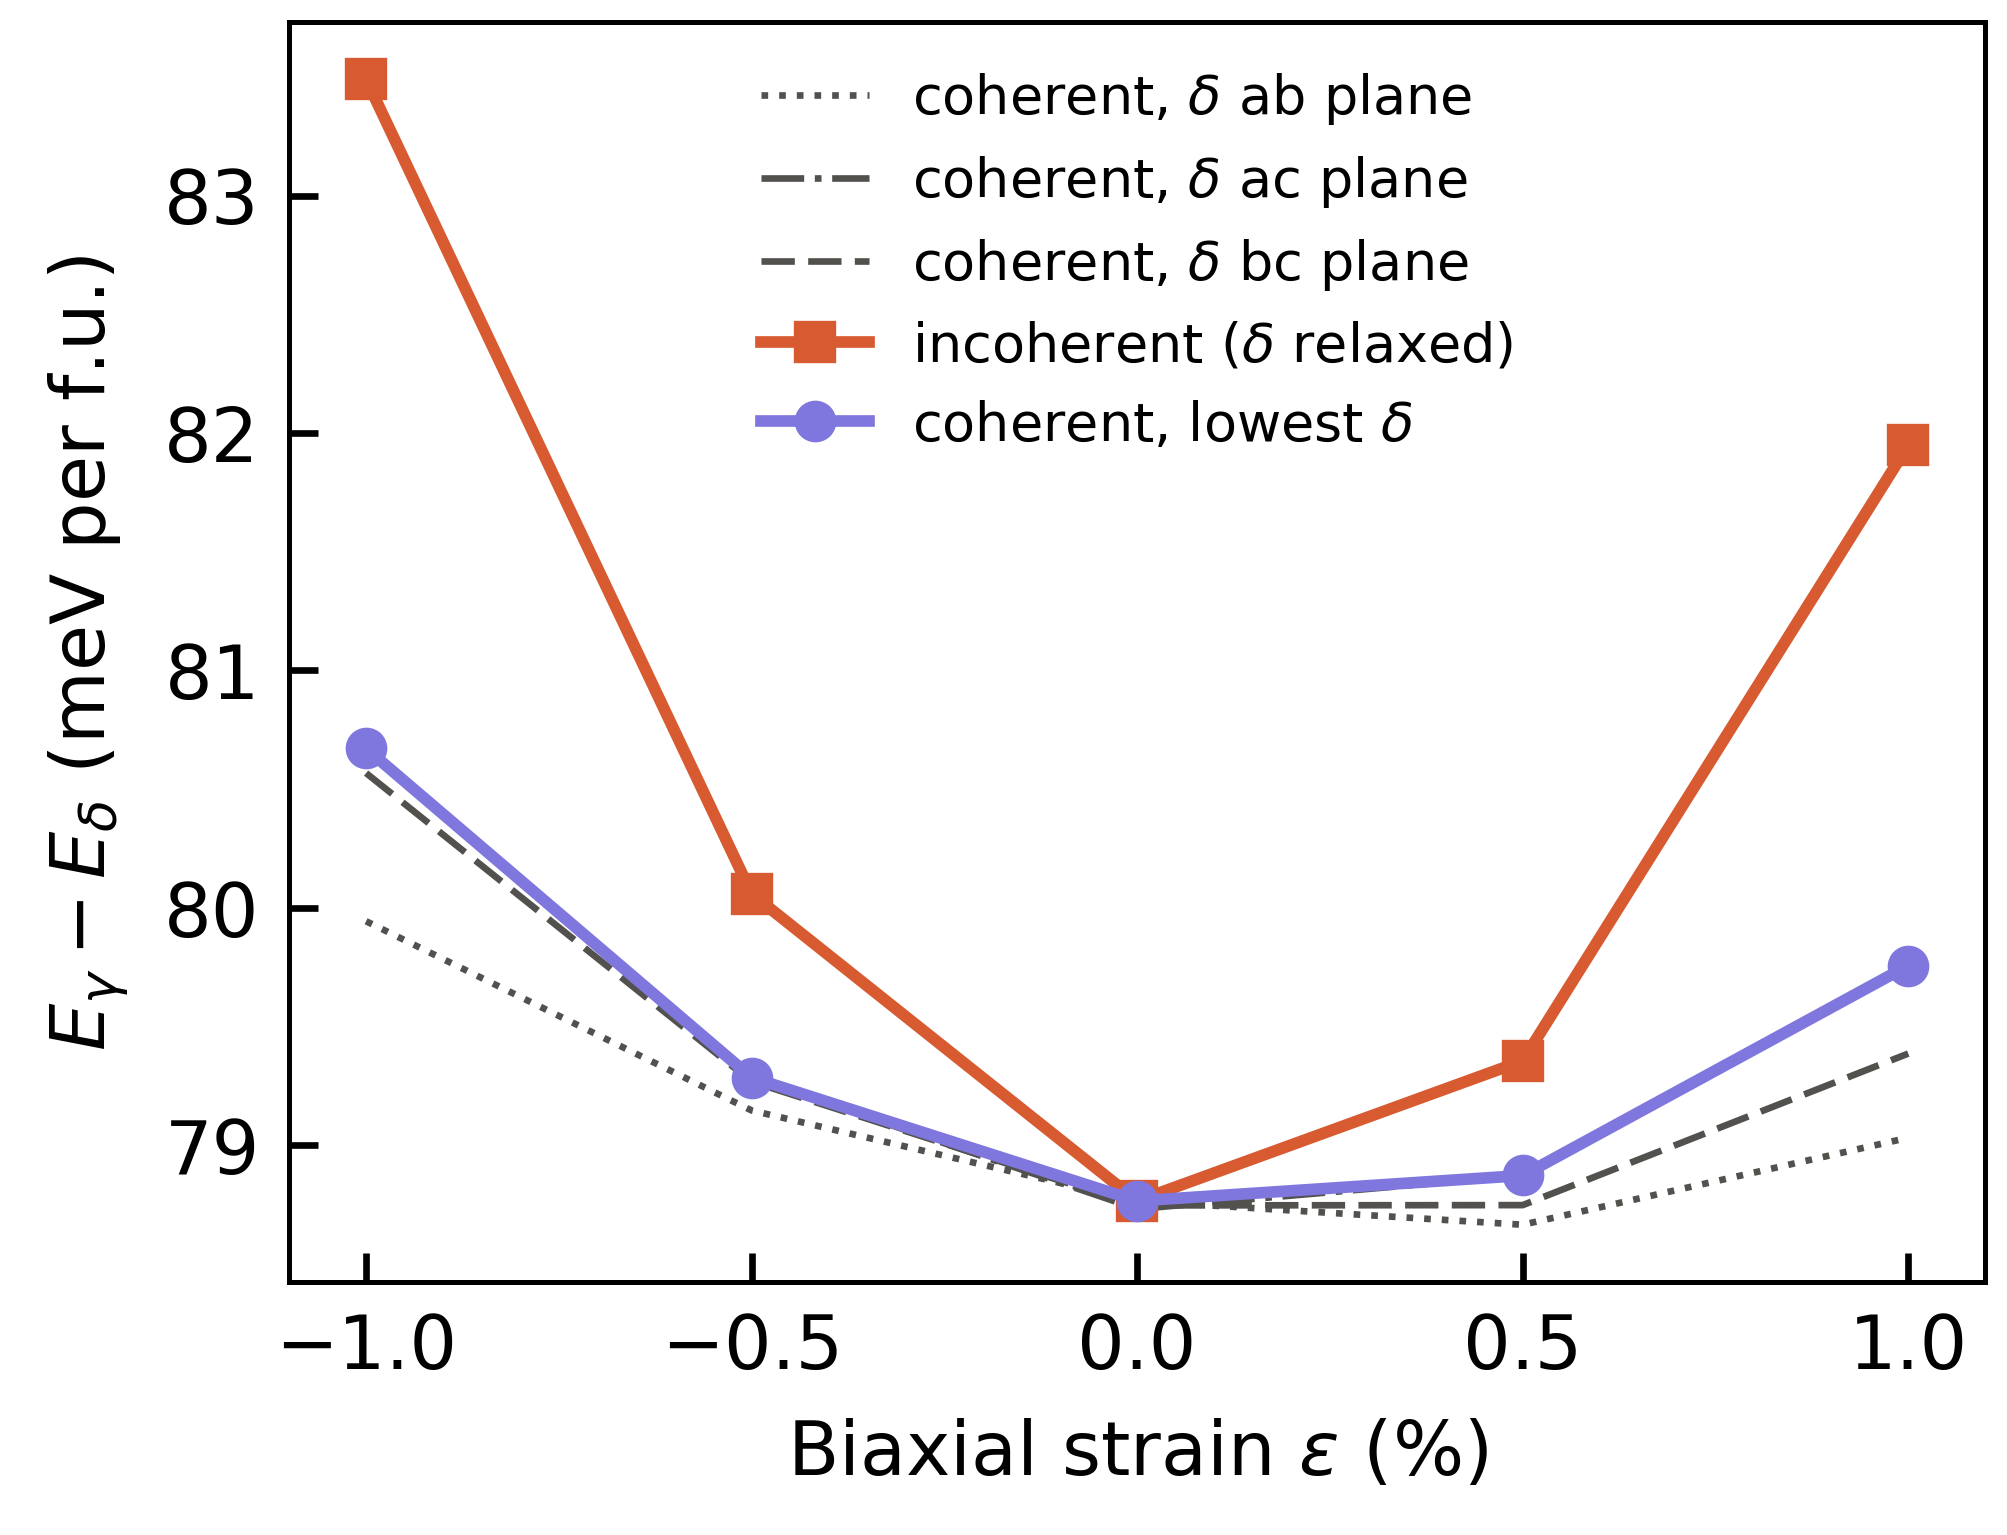
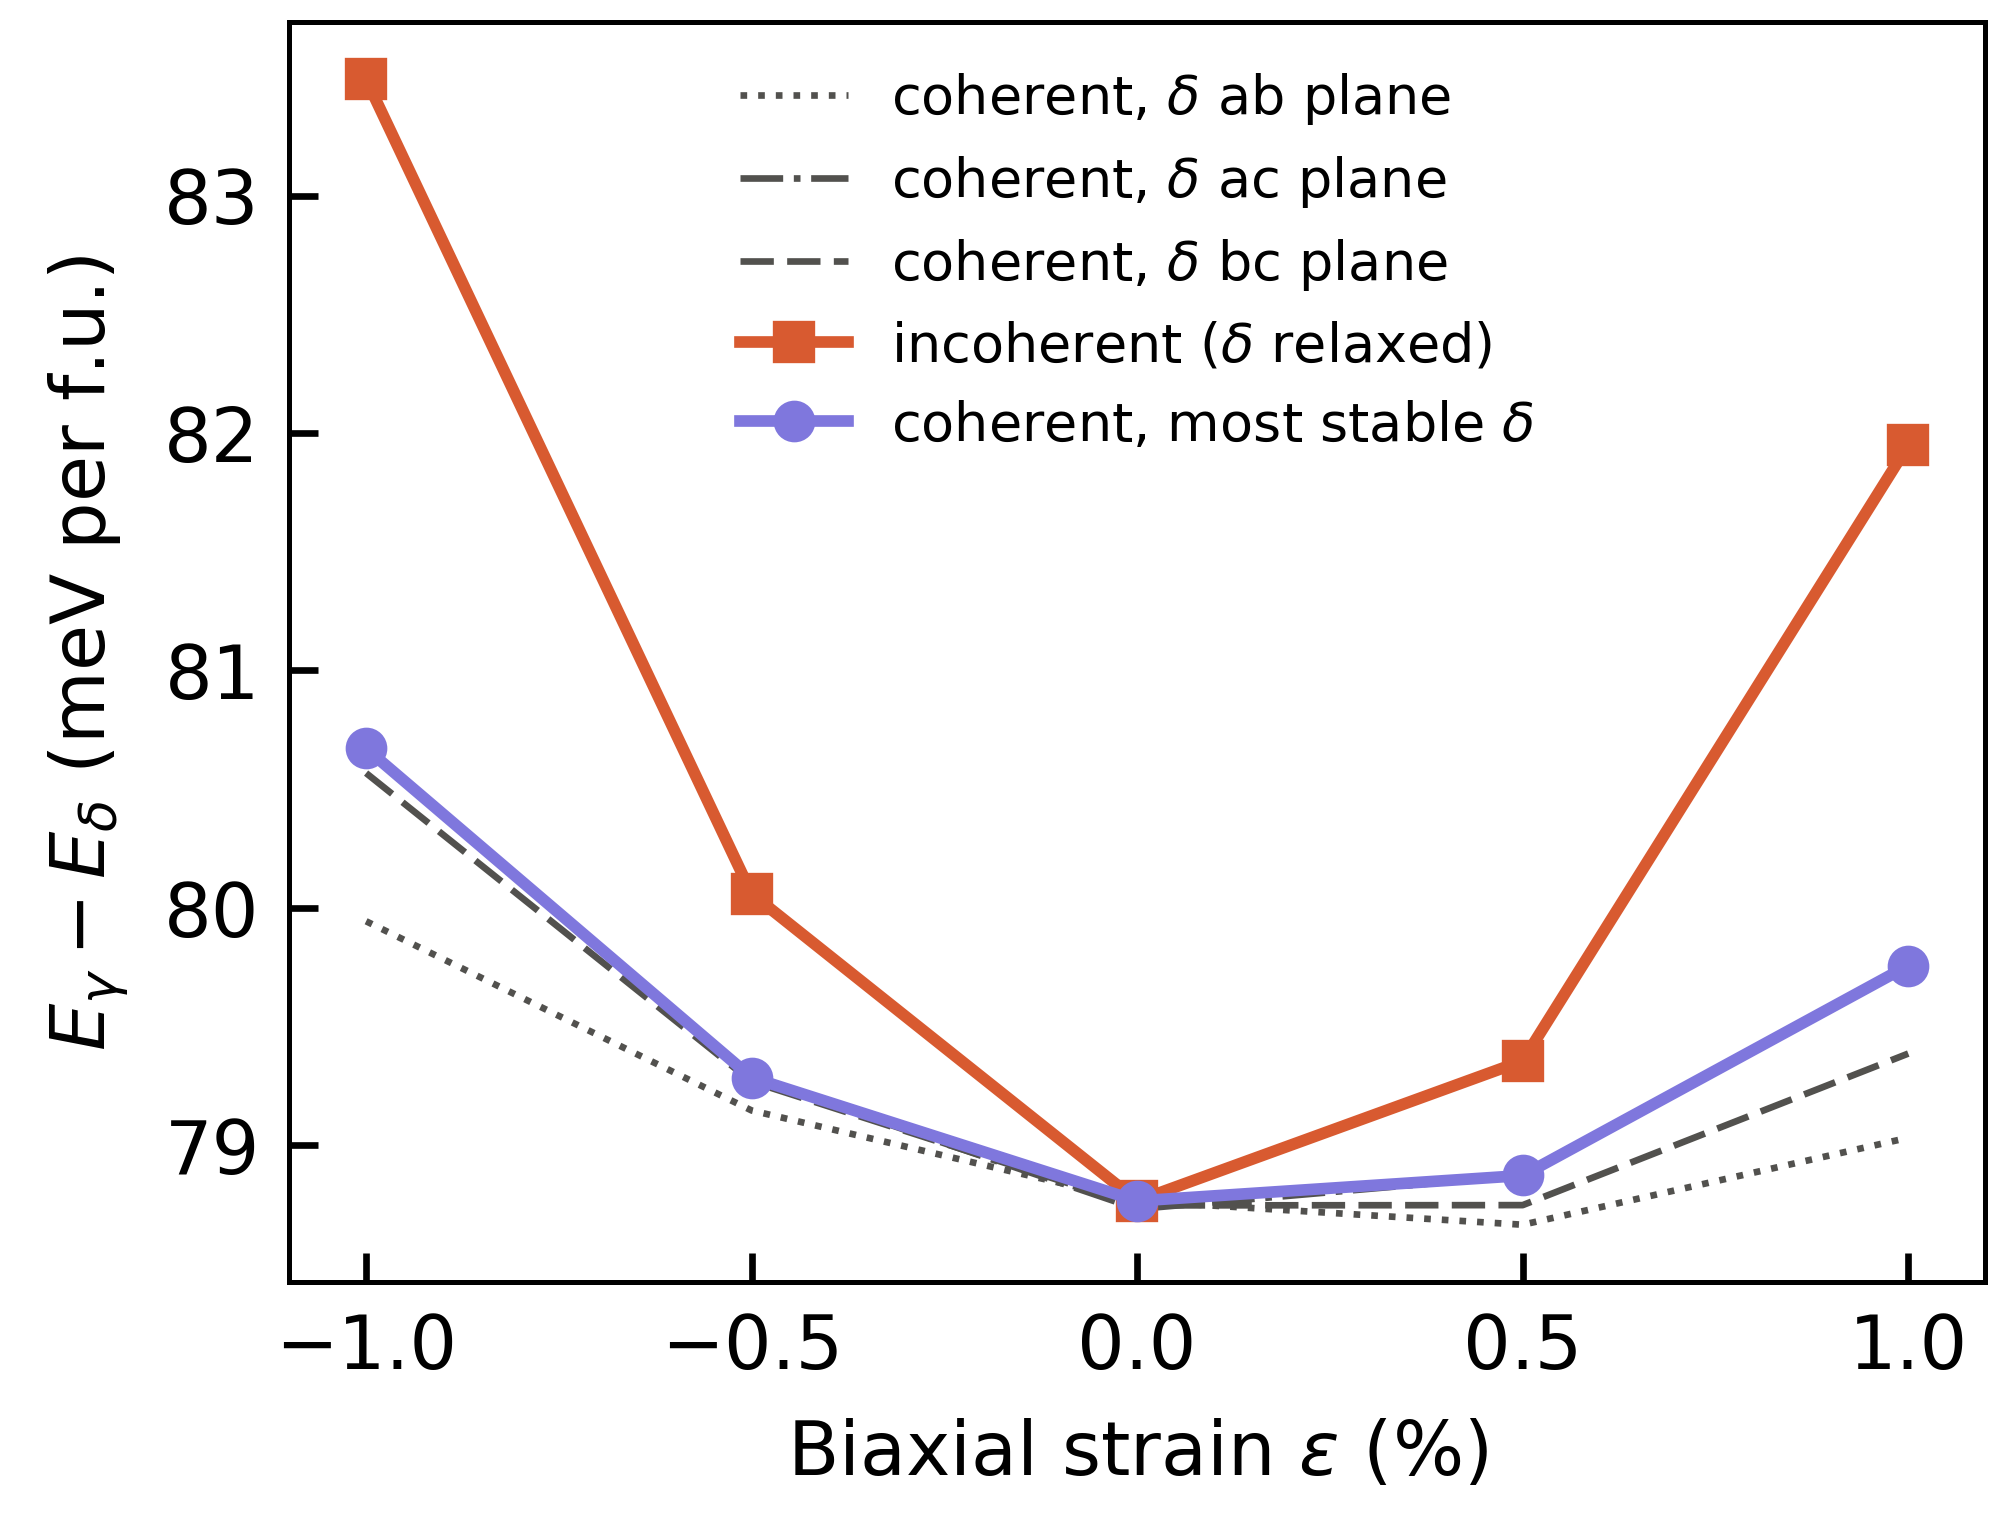
NOTES: gamma-delta against strain; legend wording
Claude-Session: https://claude.ai/code/session_01AGSrWS61GTwQgQwxt4BD4a

Changed region(s): [[0.4325, 0.0306, 0.7414, 0.1837], [0.3707, 0.2143, 0.7723, 0.3062], [0.3707, 0.1531, 0.4016, 0.1837]]

diff --git a/tools/strain_gamma_delta.py b/tools/strain_gamma_delta.py
@@ -73,7 +73,7 @@ def main():
     for p, ls in zip(planes, (":", "-.", (0, (5, 2)))):
         ax.plot(eps, per[p], color=MUT, lw=0.8, ls=ls, label=r"coherent, $\delta$ %s plane" % p)
     ax.plot(eps, inc, "s-", color=OR, ms=4, lw=1.4, label=r"incoherent ($\delta$ relaxed)")
-    ax.plot(eps, coh, "o-", color=PU, ms=4, lw=1.4, label=r"coherent, lowest $\delta$")
+    ax.plot(eps, coh, "o-", color=PU, ms=4, lw=1.4, label=r"coherent, most stable $\delta$")
     ax.set_xlabel(r"Biaxial strain $\varepsilon$ (%)")
     ax.set_ylabel(r"$E_\gamma - E_\delta$ (meV per f.u.)")
     ax.legend(frameon=False, fontsize=6.5, loc="best")

diff --git a/NOTES.md b/NOTES.md
@@ -165,6 +165,7 @@ make -j 4 pw neb pp
 | SOC check of γ–δ (18 Nov) | unit cells, PBEsol vs PBEsol+SOC | γ −60.79013 → −64.58810 eV; δ −61.10530 → −64.86599 eV (δ SOC run used the relaxed CONTCAR via FROM). **ΔE(γ−δ) = 78.8 meV/f.u. (PBEsol) → 69.5 meV/f.u. with SOC**: SOC changes it by 9 meV/f.u. |
 | 218007/218009/218032 strained supercells (18 Nov) | ±1% done, +0.5% 4c done (8d running) | E(V_I⁺) − E(perfect): −1% 0.4349 (4c) / 0.4306 (8d); 0 0.5266 / 0.5275; +0.5% 0.5652 (4c); +1% 0.6108 / 0.6044 eV. E(8d) − E(4c) = −4.3 meV (−1%), −6.5 meV (+1%). PBEsol VBM/CBM of the strained perfect cells: −1% 1.9687/3.5638, +0.5% 1.7816/3.3903, +1% 1.7182/3.3094, 0 1.8489/3.4679 eV. Mean Cs core (perfect / 4c / 8d): −1% −46.9709/−47.0029/−47.0050; +0.5% −47.1460/−47.1731/−47.1729; +1% −47.2000/−47.2258/−47.2250. **E_f(V_I⁺, I-rich, E_F at each VBM, lower site): 0.669 (−1%), 0.645 (0), 0.624 (+0.5%, 4c), 0.602 eV (+1%)**, i.e. about −0.034 eV per % of tensile strain; the raw energy rises with tension but the VBM drops faster |
 | 218030 small cells (18 Nov) | 145 of 145 finished | γ −0.5% scan and δ scans (3 planes × 5 ε × 9) in `06_strain/unit/energies.txt` (45 lines) and `06_strain/delta/energies_delta.txt` (135 lines) on the cluster; δ cells 8–15 min each, 12 GB/node |
+| γ–δ against strain (18 Nov) | `tools/strain_gamma_delta.py` → `vasp/06_strain/gamma_delta.txt`, `assets/strain_gamma_delta.png`; c(−0.5%) = 12.4262 Å added to `unit/fit.txt` | All 180 cells converged. **E_γ − E_δ (meV/f.u.), coherent (most stable δ plane, ac): 80.7, 79.3, 78.8, 78.9, 79.8 at −1, −0.5, 0, +0.5, +1%; incoherent (δ relaxed): 83.5, 80.1, 78.8, 79.4, 82.0.** Minimum at ε = 0: ±1% biaxial strain makes γ slightly less stable in both limits (≤ 2 meV coherent, ≤ 5 meV incoherent) against a 79 meV gap. Strain cannot stabilise γ thermodynamically at this level; clamping must act kinetically. δ at ε = 0: the three planes agree within 0.03 meV/f.u. |
 | 217963 S3, 217965 S5 | VASP NEB stage 2 (+1, 8d↔4c) | **Converged by 15 Nov**: S3 35 steps, highest image −485.52219 eV, **barrier 0.462 eV**; S5 24 steps, −485.63563 eV, **0.348 eV** (from E(4c) = −485.98408 eV). S4 (217964) still running, about 0.33 eV at step 33 |
 
 **Incident, 9 Oct: jobs submitted without a memory check.** A std40 node has 92 GB. QE's estimate (printed in the first minute, `Estimated total dynamical RAM`) was 137 GB for the pristine and +1 supercells and 193 GB for the spin-polarised neutral ones. On one node the jobs ran out of memory: node32 showed 92 GB used plus 45 GB of swap, 92% of CPU time waiting on the disk, pw.x in state `D`. The +1 jobs were killed, the pristine one never finished its first SCF iteration. Fix: resubmit on 2 or 3 nodes; the job script takes the process count from the node list, so only `-l nodes=N:ppn=40` changes.
